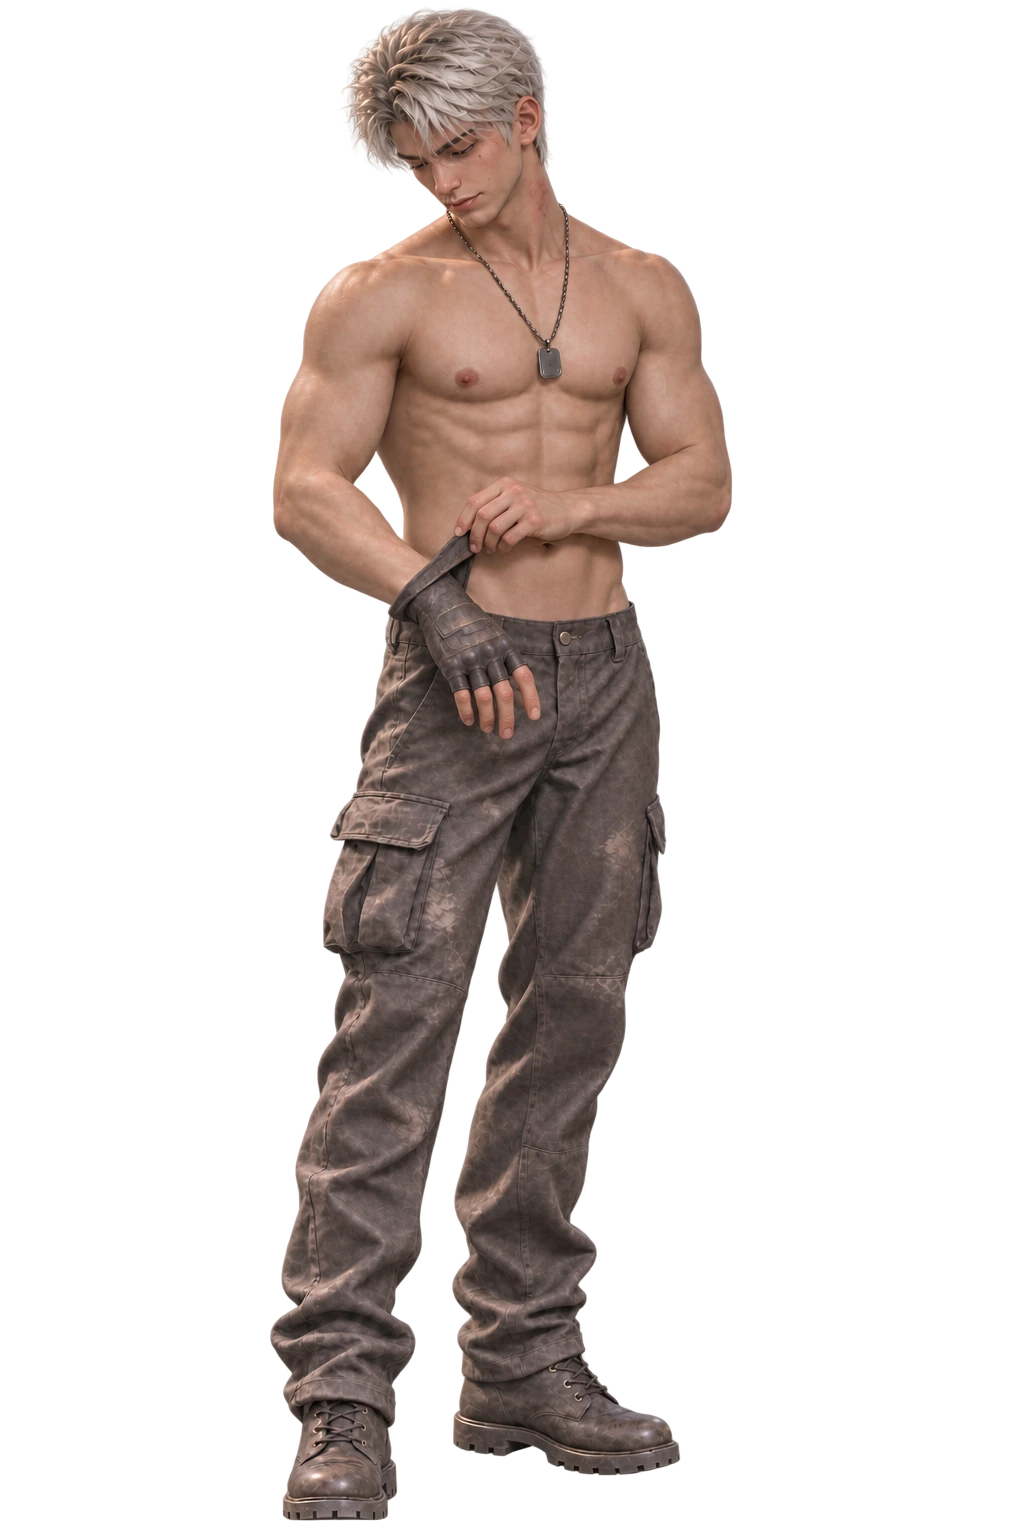
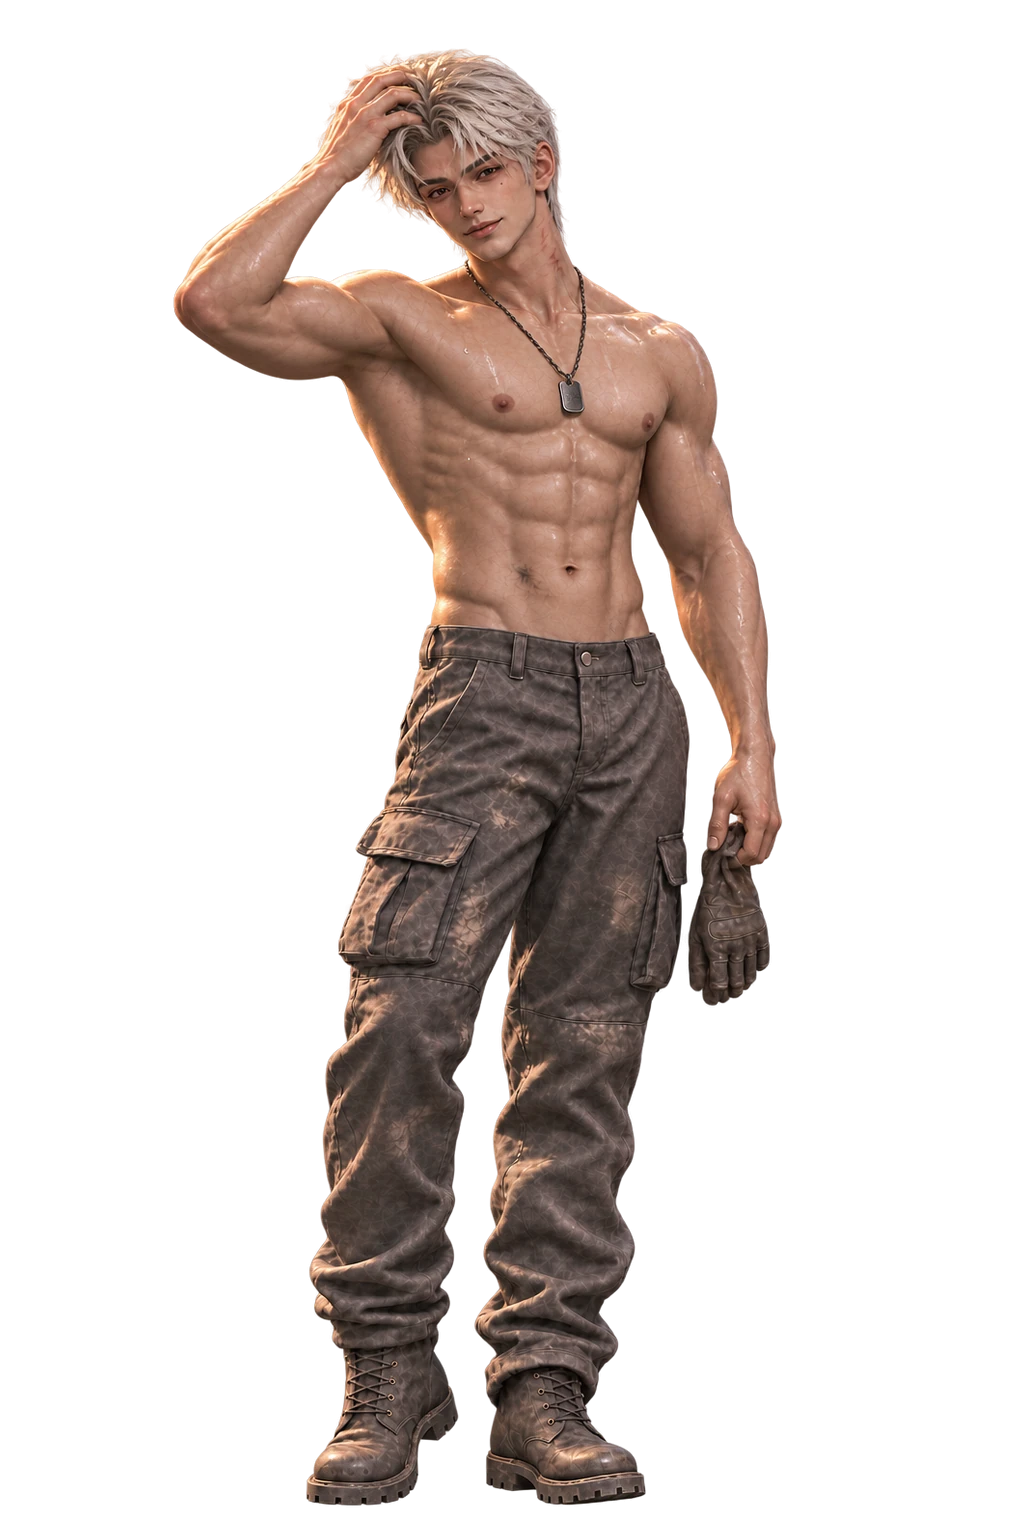
Add Youran character redesign assets and documentation, including new concept art and updated CG stages

Changed region(s): [[0.1562, 0.0, 0.7812, 1.0]]

diff --git a/art/yakyuken/youran/redesign/README.md b/art/yakyuken/youran/redesign/README.md
@@ -1,0 +1,76 @@
+# 優然｜立繪改版概念
+
+**人設方向：他知道你在看他。** 優然是個手上有活、嘴上帶笑的成年工匠。挑逗感主要由視線、表情和姿勢來傳達。
+
+參考圖以半寫實的立體光影畫出銀髮、汗光與磨舊工裝。深眉、紅棕眼、俐落的下顎和眼下小痣構成臉部記憶點；他直視鏡頭，嘴角有一點笑意，跟手套、工具和油污形成反差。遊戲現版初始立繪保留了服裝和體格，但低頭看工具，少了與玩家對視的那一下。
+
+新版保留白色羅紋背心、識別牌、肩上毛巾和紅黑工具腰帶。把目光拉回玩家，讓一邊嘴角微揚；一手抓著毛巾、一手靠在腰帶上，重心偏一側。用暖色側逆光勾出髮絲，臉部補光保住眼神。台詞方向：「你盯我這麼久，想好要出哪一拳了嗎？」
+
+客戶認可的定調稿 `youran-v2-concept.webp` 是四階段的臉型、髮型、表情與打光母稿。四張皆以 1024 × 1536 透明畫布輸出，套用同一縮放比例，對齊可見鞋底至 y=1505（透明度至少 128，座標不含該列）。牌桌 WebP 與收藏 PNG 使用同一構圖和透明通道。
+
+| 階段 | CG | 動作與造型 |
+| --- | --- | --- |
+| 0 | 工匠邀約 | 白色背心，一手抓毛巾，一手勾工具腰帶。 |
+| 1 | 熱身過後 | 手臂斜過胸前，用毛巾擦對側肩頭，另一手撐在工具腰帶上。 |
+| 2 | 撥髮迎戰 | 側身回望，手肘向外打開，把瀏海往後撥，另一手提著摘下的手套。 |
+| 3 | 優然終幕 | 磚紅短版運動緊身褲，貼身褲腳與無抽繩腰頭。一手搭後頸，一手向玩家攤開，歪頭眨眼、偏嘴笑。 |
+
+## 圖像生成
+
+使用內建 imagegen。定調稿的輸入 A 是客戶提供的工坊參考圖，輸入 B 是改版前的遊戲初始立繪。
+
+```text
+Use case: stylized-concept. Create one new full-body game character concept for YOURAN, a distinctly adult male silver-haired mechanic (age 28) in Jokers Circus. Reference A, attached PNG: primary art-direction and facial identity reference; carry over his dark-rooted ivory-silver windswept layered hair with longer loose fringe, expressive dark red-brown eyes, tiny cheek beauty mark, straight dark brows, defined nose and angular yet handsome jaw, and expressive confidence. Reference B, current stage-0.webp: wardrobe and game silhouette reference; keep the ivory ribbed tank top, brushed dog tag, dirty pale shop towel over the shoulder, dark fingerless work glove, charcoal cargo trousers, mostly black tool belt with red accents and a restrained tool pouch, and substantial work boots. Redesign the expression, anatomy and pose. Masculine and playfully provocative like a mechanic who catches you staring and enjoys it. Look straight at the viewer from under slightly lowered brows, one brow very subtly lifted, half-lidded warm direct gaze with sharp catchlights, one mouth corner curving into an unmistakable lopsided teasing smile (closed relaxed lips, no glossy makeup). Head upright and turned just a few degrees so both eyes and jaw read clearly. Mature lean work-built proportions: strong neck, shoulders and forearms, credible non-bulging muscle, straight torso with natural waist, coherent and believable anatomy and hands. One hand casually hooks a thumb in the belt near the buckle, opposite hand lightly holds the towel at his shoulder. Easy asymmetric contrapposto, weight on back leg, other boot rests flat, loose shoulders, front three-quarter stance, natural rather than fashion mannequin. One figure, 2:3 portrait frame, entire head, both elbows, hands, towel, tools and both boots visible, centered with 5 percent clear margins all around, same eye-level camera without wide-angle distortion; size him large enough to read facial expression. True transparent background, no backdrop, floor or cast shadow. Match reference A's cinematic semi-realistic painted 3D game illustration, skin with soft warm planes and controlled specular highlights, not plastic; amber workshop-style key from upper left, warm rim in loose strands, balanced fill so both eyes read; clear fabric weave, workwear dust and brushed metal. Keep contrast concentrated at the face and avoid decorative clutter. No added characters, text, graphics, framing or logos.
+```
+
+第二至第四張共用下列提示，分別接上各自的動作段落。輸入 A 是認可的定調稿，輸入 B 是改版前同階段 CG 的衣著參考。
+
+```text
+Use case: identity-preserve. Produce one game-ready portrait 2:3 full-body stage of Youran, a fictional 28-year-old adult male mechanic. Image A is the client-approved identity and painting master: match the same face closely, dark-rooted tousled ivory-silver hair with longer layered bangs, jaw and straight nose, warm red-brown eyes, tiny mark under the eye, warm complexion, work-built shoulders, adult proportions, and that exact degree of playfully cocky charisma. Keep his mature, relaxed half-lidded eye contact and subtle asymmetric closed-mouth smirk. Match its cinematic semi-realistic painterly 3D finish, warm amber rim light from upper left, soft frontal fill for clearly readable eyes, muted dark workwear, and brushed dog-tag necklace. Image B is only a wardrobe-stage reference; do not take the face, pose or gaze from image B. Camera matches A, near-frontal gentle three-quarter eye-level view, no foreshortening, natural anatomy and hands, with upper body staying centered. One person centered at A's proportions, full head, fingertips, elbows and both work boots inside the frame. True transparent background, no set, pedestal, floor, shadow, backdrop, letters or effects. Composition: portrait 1024x1536, all visible pixels between y=30 and y=1500, center of face around x=485 and bottom of the lowest boot near y=1495. Both boots remain fully in frame. Same head size, pelvis height and leg length as A. Outfit and pose for this frame:
+
+First win, “熱身過後”. A casual shirtless athletic male character portrait. Keep the reference cargo trousers, black work belt with red accents, dog tag and boots. His right fingerless-gloved hand lifts the worn pale towel to dab his right temple, with both eyes and mouth completely unobscured, while his left hand rests loosely at the side of the tool belt. His shoulders stay loose and his eyes go straight back to the viewer. Tone stays as understated and playful as A.
+
+Second win, “撥髮迎戰”. A casual shirtless athletic male character portrait, with the same full-length charcoal cargo trousers, black work boots, and brushed dog tag. The shop towel and bulky utility belt have been put away. The glove is off, lightly held by the lowered left hand near the outer thigh. He uses the fingertips of his bare raised right hand to brush his silver fringe up from the temple. Both eyes are visible and he keeps the same sidelong, direct teasing smile as A. Let his raised elbow stay comfortably within the silhouette. Keep his hips and boot stance close to A.
+
+Finale, “優然終幕”. A casual male athletic/fashion game portrait. He wears fully opaque muted brick-red athletic shorts with a mid-thigh hem, the same brushed dog tag and the same dark lace-up work boots. No towel, no tool belt, no gloves. Stand at ease, chest turned just a few degrees, one arm hanging naturally and the other with fingers resting at the outside of his hip, away from the waistband. Look directly into the player's eyes with A's half-lidded quiet confidence and the same little crooked smile. All emphasis remains on the face.
+```
+
+汗光修訂以同階段全身圖為 A，客戶提供的工坊近照為 B。三張先套用共通提示，再加上對應階段的汗光配置。輸出保留畫布尺寸，只做鞋底對位所需的微量垂直平移。
+
+```text
+Use case: precise localized material edit of a game character sprite. Image A is the exact edit target. Image B is the client's reference for natural sweat and specular lighting only. The subject is a fictional adult male mechanic, age 28. Keep A's full-body composition, face and expression, silver fringe, gaze, proportions, hands, exact pose, dog-tag, clothes and accessories, boots, colors and side-light direction. Preserve the silhouette, all clear padding and exact boot placement. Edit ONLY the exposed skin material so it shows clearly readable light perspiration, like Image B after physical work in a hot shop. Place a few small, naturally irregular clear beads and interrupted narrow wet highlights where the existing warm side light hits the collarbones, shoulder caps, outer upper arms and upper chest. A small highlight should span several pixels at full resolution and survive downscaling to a game sprite. Show actual droplet glints and soft underlying skin, not body oil, chrome, plastic, a uniform glaze, wet clothing, painted white dots, decorative sparkles, or glowing effects. Skin in shade stays mostly matte. Leave the face makeup-free and unchanged, except any tiny sweat touches explicitly named below. Output one isolated 2:3 1024x1536 PNG with true transparency, no background or floor. No scene elements from B. Maintain at least 20 pixels of clear padding at the top and bottom and do not clip any body part.
+
+Stage 1, second CG. He is dabbing his temple with the existing towel, so keep that temple and adjacent skin subtly drier. Small clear glints are visible on the uncovered collarbone and shoulder, a few very small drops on the upper arm and sternum. Make the difference noticeable from A without broad gloss.
+
+Stage 2, third CG. He brushes his fringe with his raised hand. This stage has the clearest sweat response. Let a fine broken sheen catch the upper rim on the raised shoulder, and place a few very legible natural drops on the base of the neck, both shoulder caps, outer forearm, and at the sternum. One or two short faint downward trails below the clavicle only. Keep the face and hand gesture.
+
+Stage 3, fourth CG. He has settled after the round. Keep A's opaque brick-red athletic shorts and full-body standing pose. Let a lighter lingering sweat sheen and sparse small beads glint on the shoulders and clavicles, with a couple of small glints on the forearms. Keep the focus on the face and shoulder line.
+```
+
+動作修訂以汗光版全身圖和認可母稿為參考。第二張改成橫擦肩頭，第三張改成側身往後撥髮。終幕另用母稿設計眨眼和攤手，再修正攤手側的手套，接續上一張摘手套的動作。
+
+```text
+Use case: identity-preserve, final game sprite pose redesign. Image A is the edit target and wardrobe, perspiration and style source. Image B is the approved identity master. Exactly the same fictional 28-year-old male mechanic Youran: silver windswept fringe, warm reddish brown eyes, small beauty mark, angular jaw, adult mechanic build, brushed dog tag, work boots. Match his head and leg proportions, skin tone, painterly semi-realistic 3D material finish and warm upper-left workshop lighting. Preserve natural sweat beads and short clear highlights on exposed collarbones, shoulders and forearms, with mostly matte skin in shade. Keep the same 2:3 1024x1536 full-body eye-level sprite camera and subject scale, with head centered near x=480, crown near y=30 and both boots entirely visible with the lowest sole at approximately y=1505. Preserve 20 pixels minimum vertical transparent padding, keep elbow and prop extremities inside x=180 to x=840. True isolated transparent background, one figure, no floor, objects on ground, backdrop, fog, text or decals. The pose below is a deliberate change from A and must read from its silhouette and broad body lines at 360 pixels tall. Give anatomically natural shoulders, arms, hands and fingers.
+
+Second CG, hot workshop break. Same charcoal cargo trousers, tool belt, boots and work gloves as A. Replace the small gesture at the temple with a clear cross-body towel swipe. His gloved right hand (on the viewer's left side of his body) crosses diagonally over his chest to press the pale shop towel against his left collarbone on the viewer's right, wiping along the shoulder. The hand stays below his neck so the face is clear, the loose towel end hangs down the right edge of his torso. His free hand braces the outside of his tool belt, elbow bent outward at hip height. Both elbows are below the shoulder line. Hips turn slightly away from the towel, his face looks back at the viewer with his familiar lightly amused smile. Tiny clean sweat glints on the shoulder that has not been wiped. Keep the trousers, tools and fabric in the same colors and proportions.
+
+Third CG, brushing his hair back before the next round. Keep bare upper torso, charcoal cargo trousers and work boots, no utility belt or towel. The raised bare hand on the VIEWER'S LEFT makes an expansive, unmistakable backward sweep across the front of the silver hair, with the palm angled back and a few silver strands lifted from the forehead by his fingers. The elbow points diagonally outward to the viewer's left with a small triangle of empty space between forearm and head silhouette. Torso turned about 25 degrees to the viewer's right, head turning back so both eyes and his restrained teasing smile are visible. Opposite arm drops beside his thigh, holding the removed work glove by its cuff. Pronounced but natural beads and short trails on the clavicles, chest and outer forearm. No wind lines or floating strands. Keep the full-body mechanic silhouette and garment fit.
+
+Use case: precise costume correction in a non-explicit adult male sports/game illustration. Edit image A only. It shows Youran the adult mechanic, already in the newly approved motion of reaching across his own chest with a gloved hand and a pale shop towel to dry his opposite shoulder. The white ribbed tank top under the towel and necklace is an erroneous extra garment. Replace the visible white ribbed tank top region with natural bare skin of a shirtless adult male after a work break, as shown in image B, where he wears cargo trousers, utility belt, work boots and dog tag. Keep the towel itself, its exact shape and position, gloves, pants, tools, boots, necklace, face, eyes, pose, proportions and all other content from A. Reproduce a few distinct beads of sweat and narrow specular highlights on the outer shoulder and upper chest, as in B. Preserve Image A's cinematic game illustration finish, natural anatomy, transparent background and full-body portrait composition. 1024x1536 true alpha, all of the head, hands and soles visible. No other changes.
+
+Use case: stylized-concept. Full-body character reaction sprite for a lighthearted game. Fictional adult man Youran from image A, the same silver hair, red-brown eyes, cheek mark, brushed dog tag, muscular mechanic physique and stylized semi-realistic painted game illustration. Set the costume to opaque brick-red loose athletic shorts with a straight mid-thigh hem and dark lace-up mechanic boots. No shirt as in a standard men's sports character sheet. Give him a funny, confident reaction after a close match: one open hand rests behind his neck, with that elbow visibly sticking to the viewer's RIGHT, other hand held out a little to the viewer's left with a friendly palm-up "well played!" gesture. Weight naturally on one boot, a small amused head tilt, an eyebrow raised, one eye in a clear quick wink, and a lively asymmetric corner grin. Face looking toward player with the open eye. The wink and open-hand gesture are the two strongest storytelling details. Add a little residual athletic perspiration in fine highlights on the shoulders and clavicle. Keep colors and amber side-light of the reference. Center face at x~480 and maintain same body scale as A with both boot soles at y~1505; both elbows, all fingers, hair, and boots in frame with clear padding. 2:3 portrait, 1024x1536, one complete figure, eye-level camera, transparent background, no cast shadow or environment, no text.
+
+Use case: precise object edit. On this existing full-body game character illustration of an adult male athlete, remove the single black fingerless glove from the open palm-up hand on the left side of the image. Replace only that glove with a matching bare palm, naturally posed finger joints and exposed wrist. Preserve the exact palm-up gesture and hand silhouette. Keep the wink, asymmetric grin, head tilt, hand behind neck, whole body pose, sweat, hair, warm lighting, red mid-thigh athletic shorts, work boots, necklace, camera, scale, alignment and framing from the input. Keep the same complete 1024 by 1536 portrait, genuine transparent alpha background, no objects or text.
+```
+
+終幕服裝最後以既有眨眼攤手稿為基礎，改成磚紅短版運動緊身褲。
+
+```text
+Use case: precise-object-edit. This full-length character sprite depicts a fictional adult male athlete in a friendly victory pose. Change only his loose red sports shorts to opaque, matte, brick-red athletic compression shorts. Use a smooth wide elastic waistband, a short upper-to-mid-thigh straight hem on each leg, a close technical sports fit around each leg, flatlock stitching, no drawstring, no pockets, no logos. Keep standard sportswear coverage. Preserve the exact face, wink, open palm, hand behind neck, head tilt, pose, legs and boots, hair, lighting, and necklace. Preserve the 1024 by 1536 portrait composition, figure scale and original transparent alpha background. No crop, no zoom, no added objects.
+```
+
+最後再上收兩側褲腳約一個褲邊的寬度，沿用原立繪的透明輪廓。
+
+```text
+Use case: precise object edit for a full-body character illustration of an adult athlete. Make a small tailoring adjustment to the brick-red opaque compression shorts already in the picture. Raise each existing stitched hem by one hem-width, about 16 pixels in the 1536-pixel-tall image, following its existing angle. Keep the shorts' current wide flat waistband and conventional compression sportswear coverage. Brick-red fabric, no drawstring. The full-body composition, anatomy, camera, wink and smile, open palm, hand on the back of his neck, boots, and transparent background should match the source. Preserve the entire figure and the 1024x1536 canvas.
+```
